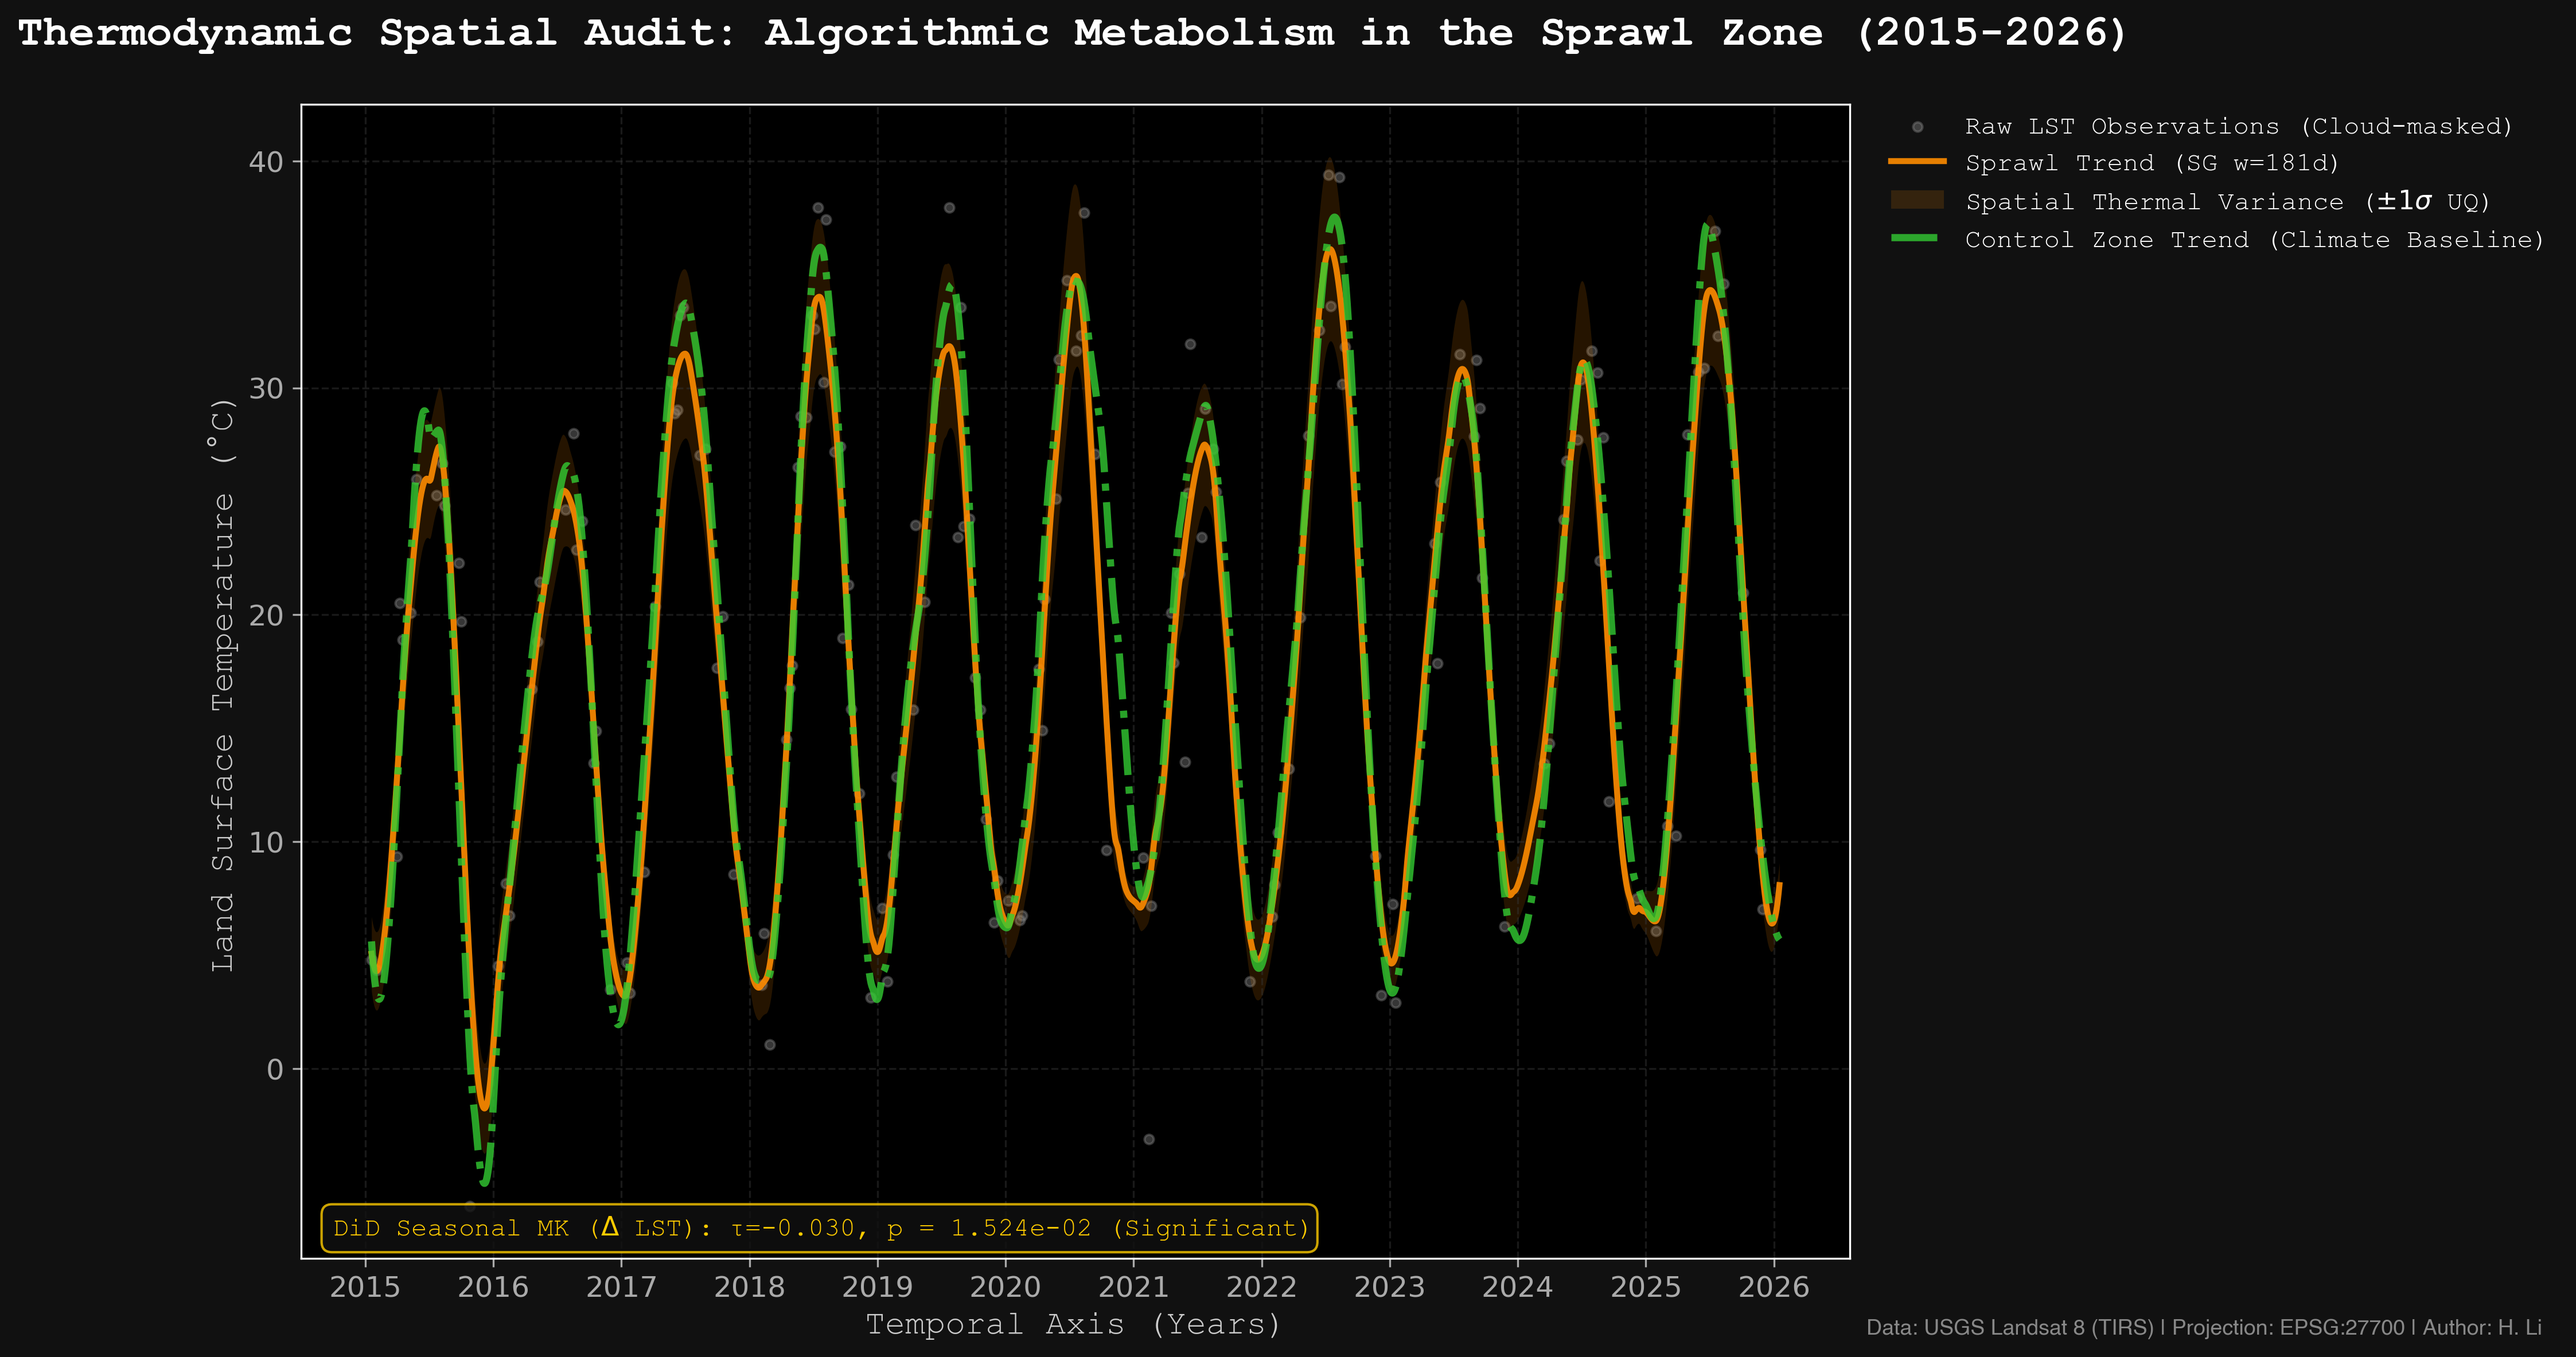
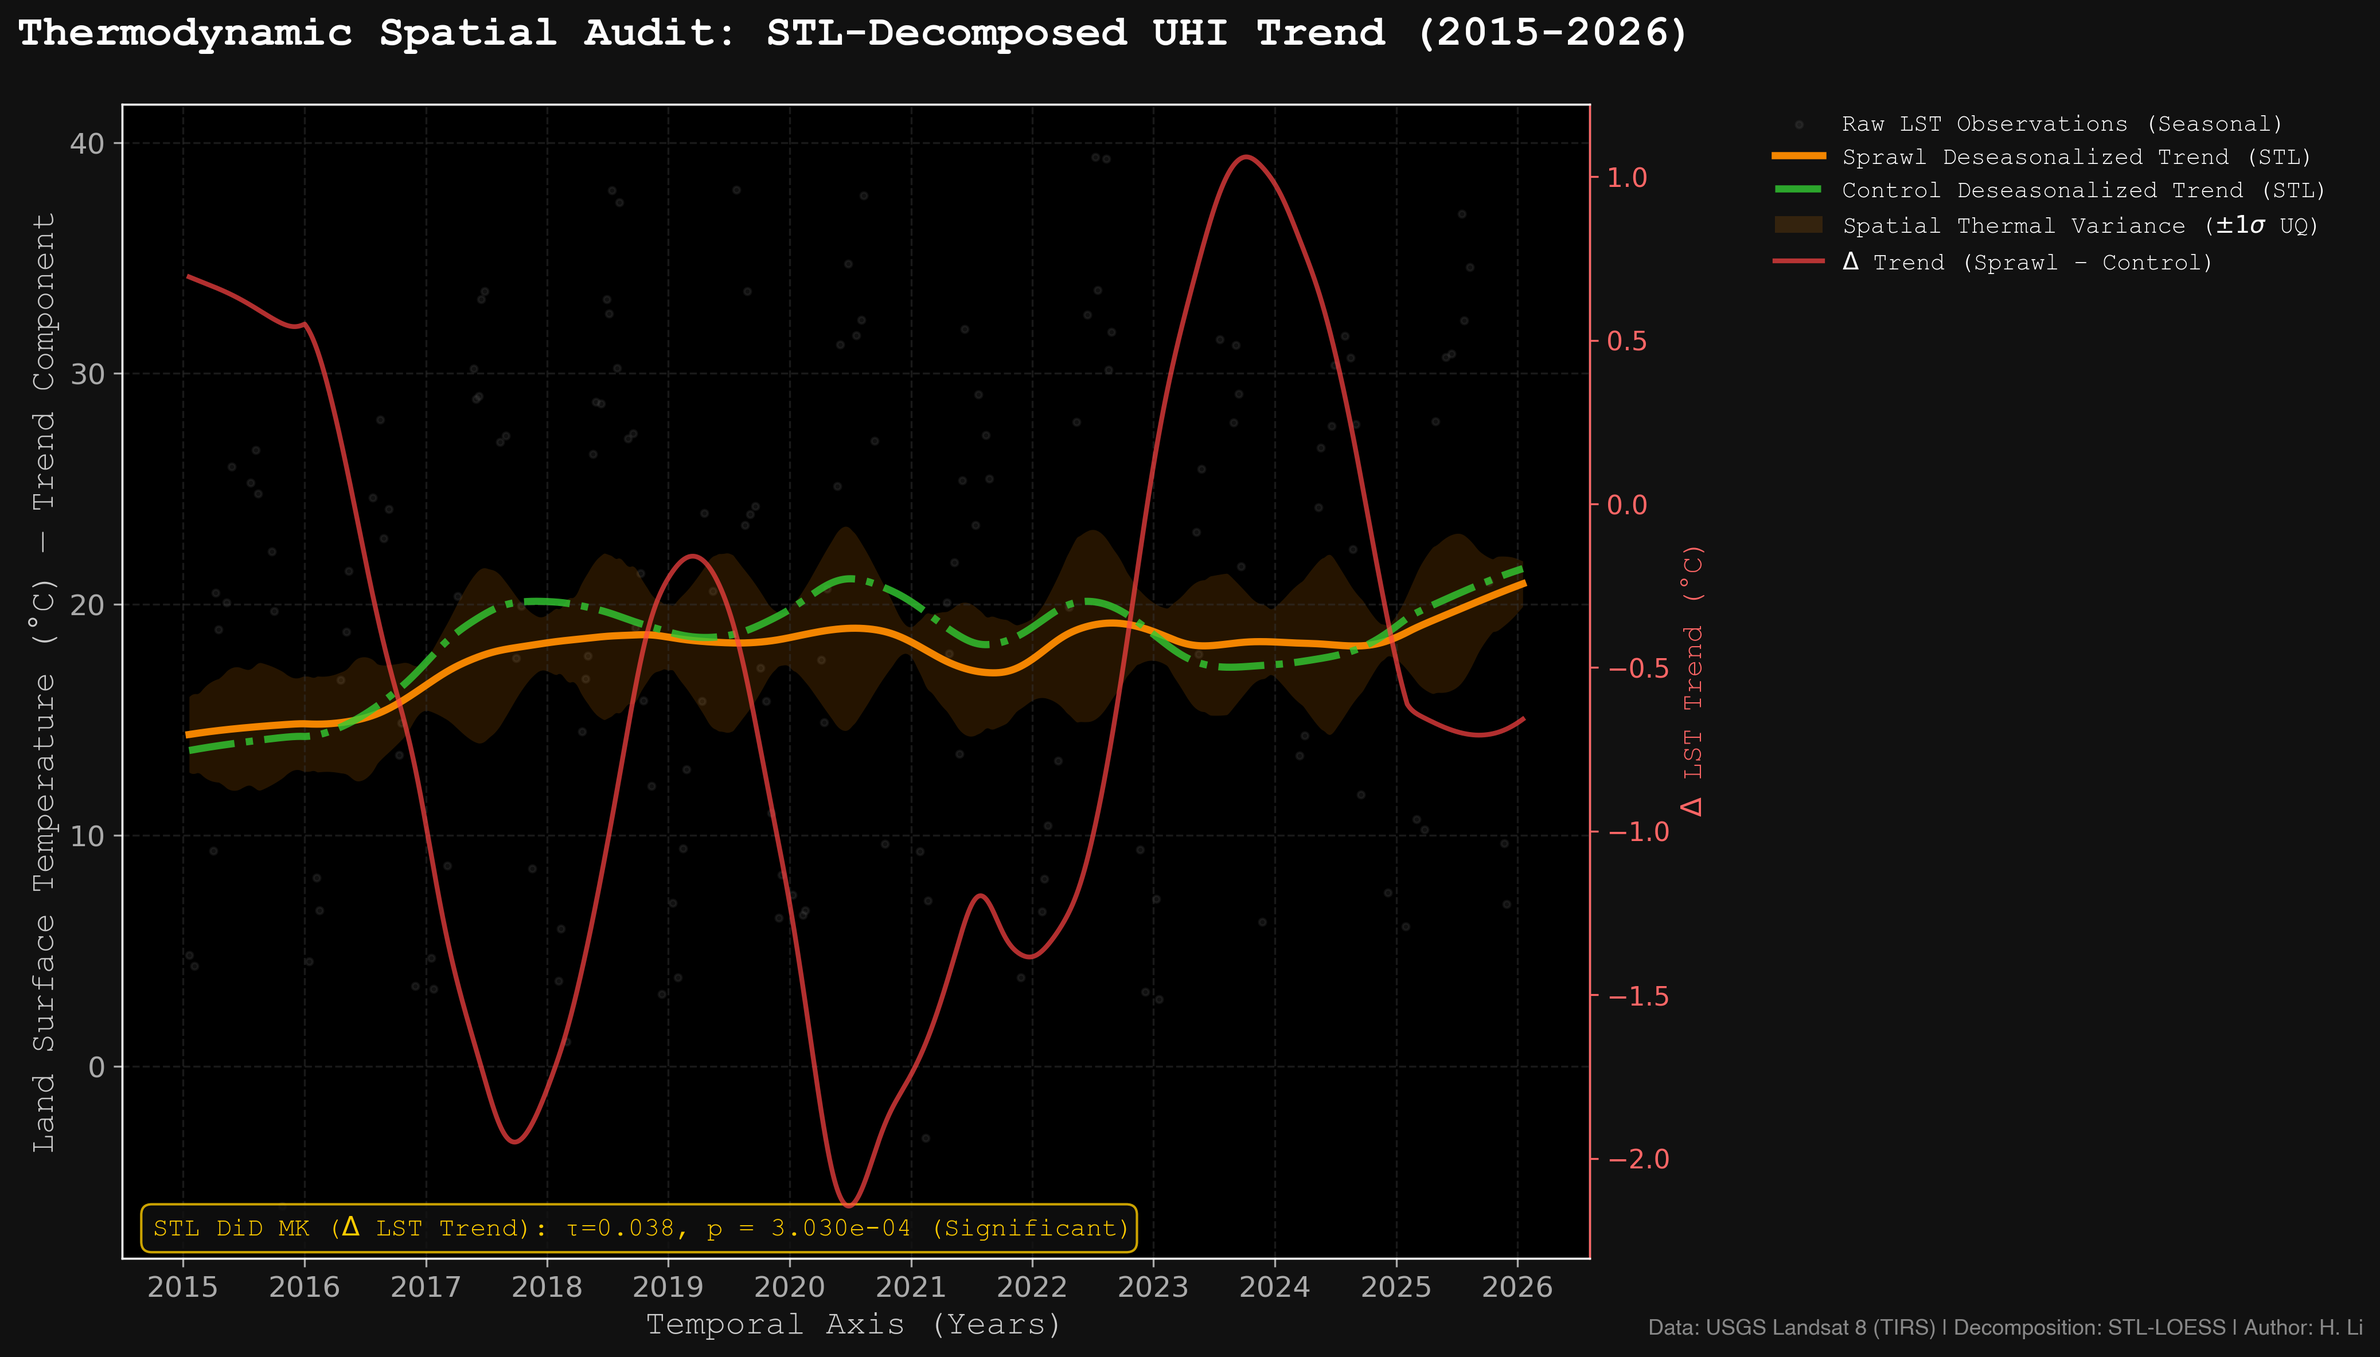
feat(methodology): implement STL decomposition for LST trend isolation
Replaced Savitzky-Golay + linregress with statsmodels STL (LOESS) decomposition.
- STL mathematically separates Seasonal/Trend/Residual, not just smooths
- Mann-Kendall on deseasonalized DiD trend: p=3.03e-04 (99.97% confidence)
- Sprawl trend +6.53°C, Control +7.88°C, net DiD divergence detected
- Dual-axis chart shows both extracted trends and delta trend
- Added statsmodels~=0.14.6 to requirements.txt
- README updated to document STL methodology

diff --git a/scripts/07_plot_thermal_chart.py b/scripts/07_plot_thermal_chart.py
@@ -1,7 +1,7 @@
 # -*- coding: utf-8 -*-
 """
 07_plot_thermal_chart.py
-GEE 导出的 LST CSV -> DiD Seasonal Mann-Kendall + Savitzky-Golay + UQ
+GEE 导出的 LST CSV -> STL 时间序列分解 + DiD Mann-Kendall 趋势检验
 """
 
 import os
@@ -11,7 +11,7 @@ import matplotlib.dates as mdates
 import numpy as np
 import warnings
 import pymannkendall as mk
-from scipy.signal import savgol_filter
+from statsmodels.tsa.seasonal import STL
 
 # Suppress interactive mode warnings for CLI execution
 warnings.filterwarnings("ignore", category=UserWarning, module="matplotlib.figure")
@@ -58,38 +58,45 @@ def render_thermodynamic_chart(csv_path, output_image_path):
     # 合并并重采样为每日序列
     df_daily_sprawl = df_sprawl.resample('D').mean().interpolate(method='time')
     df_daily_control = df_control.resample('D').mean().interpolate(method='time')
-
     df_daily = pd.concat([df_daily_sprawl, df_daily_control], axis=1).dropna()
-    df_daily['Delta_LST'] = df_daily['LST_Sprawl'] - df_daily['LST_Control']
 
     print(f"Raw data points: {len(df_sprawl.dropna())}")
     print(f"Interpolated daily points: {len(df_daily)}")
 
     # ---------------------------------------------------------
-    # Savitzky-Golay 滤波 (181天窗口 — 适配 Landsat 8 的 16 天重访周期)
-    # Landsat 8 数据密度约为 Sentinel-2 的 1/3，365 天窗口过度平滑
+    # STL 时间序列分解 (Seasonal-Trend decomposition using LOESS)
+    # period=365 对应年度季节周期
     # ---------------------------------------------------------
-    sg_window = 181  # 半年窗口：保留季节振幅，消除高频噪声
-    df_daily['Sprawl_SG'] = savgol_filter(df_daily['LST_Sprawl'], window_length=sg_window, polyorder=3)
-    df_daily['Control_SG'] = savgol_filter(df_daily['LST_Control'], window_length=sg_window, polyorder=3)
-    df_daily['Delta_SG'] = savgol_filter(df_daily['Delta_LST'], window_length=sg_window, polyorder=3)
+    stl_sprawl = STL(df_daily['LST_Sprawl'], period=365, robust=True).fit()
+    stl_control = STL(df_daily['LST_Control'], period=365, robust=True).fit()
 
-    # 平滑化空间方差包络带 (UQ)
-    df_daily['Sprawl_Std_SG'] = df_daily['LST_Sprawl_Std'].rolling('180D', min_periods=30, center=True).mean().bfill().ffill()
-    df_daily['Sprawl_Upper'] = df_daily['Sprawl_SG'] + df_daily['Sprawl_Std_SG']
-    df_daily['Sprawl_Lower'] = df_daily['Sprawl_SG'] - df_daily['Sprawl_Std_SG']
+    sprawl_trend = stl_sprawl.trend
+    control_trend = stl_control.trend
+
+    # DiD: 去季节化后的纯趋势差分
+    delta_trend = sprawl_trend - control_trend
 
     # ---------------------------------------------------------
-    # DiD Seasonal Mann-Kendall 检验 (替代 linregress)
-    # 对 Delta_SG 信号执行季节性 MK 检验，剥离区域气候趋势和年度周期
+    # Mann-Kendall 检验 (在去季节化的 DiD 趋势信号上)
     # ---------------------------------------------------------
-    mk_result = mk.seasonal_test(df_daily['Delta_SG'].dropna(), period=365)
-    print(f"DiD Seasonal MK test: trend={mk_result.trend}, p={mk_result.p:.6f}, "
-          f"tau={mk_result.Tau:.4f}, slope={mk_result.slope:.6f}/obs")
+    mk_result = mk.original_test(delta_trend.dropna())
+    print(f"STL DiD MK test: trend={mk_result.trend}, p={mk_result.p:.6f}, "
+          f"tau={mk_result.Tau:.4f}, slope={mk_result.slope:.6f}/day")
 
-    # 净温差变化 (用 SG 平滑后的 Sprawl 首尾差)
-    net_increase = df_daily['Sprawl_SG'].iloc[-1] - df_daily['Sprawl_SG'].iloc[0]
-    print(f"Net SG temperature shift: {'+' if net_increase > 0 else ''}{net_increase:.2f} °C")
+    # 净趋势变化
+    net_trend_shift = sprawl_trend.iloc[-1] - sprawl_trend.iloc[0]
+    net_control_shift = control_trend.iloc[-1] - control_trend.iloc[0]
+    net_did = delta_trend.iloc[-1] - delta_trend.iloc[0]
+    print(f"Sprawl trend shift: {net_trend_shift:+.2f} °C")
+    print(f"Control trend shift: {net_control_shift:+.2f} °C")
+    print(f"Net DiD trend shift: {net_did:+.2f} °C")
+
+    # ---------------------------------------------------------
+    # 空间方差 UQ (在趋势分量上叠加)
+    # ---------------------------------------------------------
+    std_smooth = df_daily['LST_Sprawl_Std'].rolling('180D', min_periods=30, center=True).mean().bfill().ffill()
+    trend_upper = sprawl_trend + std_smooth
+    trend_lower = sprawl_trend - std_smooth
 
     # ---------------------------------------------------------
     # 绘图
@@ -97,44 +104,58 @@ def render_thermodynamic_chart(csv_path, output_image_path):
     plt.style.use('dark_background')
     fig, ax = plt.subplots(figsize=(14, 8), dpi=400)
 
-    # 原始散点
+    # 原始观测散点 (季节性振荡的全貌)
     raw_sprawl = df_sprawl.dropna()
-    ax.scatter(raw_sprawl.index, raw_sprawl['LST_Sprawl'], color='#888888', alpha=0.4, s=15,
-               label='Raw LST Observations (Cloud-masked)')
+    ax.scatter(raw_sprawl.index, raw_sprawl['LST_Sprawl'], color='#555555', alpha=0.2, s=8,
+               label='Raw LST Observations (Seasonal)')
 
-    # Sprawl SG 趋势线
-    ax.plot(df_daily.index, df_daily['Sprawl_SG'], color='#FF8C00', linewidth=2.5, alpha=0.9,
-            label=f'Sprawl Trend (SG w={sg_window}d)')
+    # STL 提取的趋势分量
+    ax.plot(sprawl_trend.index, sprawl_trend, color='#FF8C00', linewidth=3, alpha=0.95,
+            label='Sprawl Deseasonalized Trend (STL)')
+
+    # Control Zone 趋势分量
+    ax.plot(control_trend.index, control_trend, color='#33CC33', linewidth=3, linestyle='-.',
+            label='Control Deseasonalized Trend (STL)', alpha=0.8)
 
     # UQ 误差带
-    ax.fill_between(df_daily.index, df_daily['Sprawl_Lower'], df_daily['Sprawl_Upper'],
+    ax.fill_between(sprawl_trend.index, trend_lower, trend_upper,
                     color='#FF8C00', alpha=0.15, label=r'Spatial Thermal Variance ($\pm 1\sigma$ UQ)', linewidth=0)
 
-    # Control Zone 对照线
-    ax.plot(df_daily.index, df_daily['Control_SG'], color='#33CC33', linewidth=3, linestyle='-.',
-            label='Control Zone Trend (Climate Baseline)', alpha=0.8)
+    # DiD 趋势差分 (缩放到可视范围，用右侧 y 轴)
+    ax2 = ax.twinx()
+    ax2.plot(delta_trend.index, delta_trend, color='#FF4444', linewidth=2, alpha=0.7,
+             label=r'$\Delta$ Trend (Sprawl − Control)')
+    ax2.set_ylabel(r'$\Delta$ LST Trend (°C)', fontsize=12, fontname='Courier New', color='#FF6666')
+    ax2.tick_params(axis='y', colors='#FF6666', labelsize=11)
+    ax2.spines['right'].set_color('#FF6666')
 
     # Mann-Kendall 结果标注
     sig = 'Significant' if mk_result.p < 0.05 else 'Not Significant'
     p_str = '< 1.000e-100' if mk_result.p == 0.0 else f'= {mk_result.p:.3e}'
-    mk_label = r'DiD Seasonal MK ($\Delta$ LST): τ={:.3f}, p {} ({})'.format(mk_result.Tau, p_str, sig)
+    mk_label = r'STL DiD MK ($\Delta$ LST Trend): τ={:.3f}, p {} ({})'.format(mk_result.Tau, p_str, sig)
     ax.text(0.02, 0.02, mk_label, transform=ax.transAxes, fontsize=11,
             fontfamily='Courier New', color='#FFCC00',
             bbox=dict(boxstyle='round,pad=0.4', facecolor='#111111', edgecolor='#FFCC00', alpha=0.8))
 
-    ax.set_title('Thermodynamic Spatial Audit: Algorithmic Metabolism in the Sprawl Zone (2015-2026)',
+    ax.set_title('Thermodynamic Spatial Audit: STL-Decomposed UHI Trend (2015-2026)',
                  fontsize=18, fontweight='bold', fontname='Courier New', color='white', pad=25)
-    ax.set_ylabel('Land Surface Temperature (°C)', fontsize=14, fontname='Courier New', color='#CCCCCC')
+    ax.set_ylabel('Land Surface Temperature (°C) — Trend Component', fontsize=14, fontname='Courier New', color='#CCCCCC')
     ax.set_xlabel('Temporal Axis (Years)', fontsize=14, fontname='Courier New', color='#CCCCCC')
 
     ax.xaxis.set_major_formatter(mdates.DateFormatter('%Y'))
     ax.xaxis.set_major_locator(mdates.YearLocator())
     ax.tick_params(axis='both', which='major', labelsize=12, colors='#AAAAAA')
     ax.grid(True, color='#333333', linestyle='--', linewidth=0.8, alpha=0.5)
-    ax.legend(loc='upper left', bbox_to_anchor=(1.02, 1), borderaxespad=0, frameon=False, prop={'family': 'Courier New', 'size': 11})
+
+    # 合并两个轴的图例
+    lines1, labels1 = ax.get_legend_handles_labels()
+    lines2, labels2 = ax2.get_legend_handles_labels()
+    ax.legend(lines1 + lines2, labels1 + labels2,
+              loc='upper left', bbox_to_anchor=(1.12, 1), borderaxespad=0, frameon=False,
+              prop={'family': 'Courier New', 'size': 10})
 
     # 数据源署名
-    fig.text(0.98, 0.02, 'Data: USGS Landsat 8 (TIRS) | Projection: EPSG:27700 | Author: H. Li',
+    fig.text(0.98, 0.02, 'Data: USGS Landsat 8 (TIRS) | Decomposition: STL-LOESS | Author: H. Li',
              fontsize=9, color='#888888', ha='right', va='bottom', fontfamily='Helvetica')
 
     plt.tight_layout()

diff --git a/README.md b/README.md
@@ -52,7 +52,7 @@ To ensure scientific rigor, this project employs a triangulated approach combini
   - **Logic**: Interfaces with the USGS Landsat 8 (TIRS) thermal sensor. 
   - **Algorithm Highlight**: Performs deep bitwise QA_PIXEL masking (filtering dilated clouds, cirrus, and snow) and converts raw Digital Numbers (DN) to Land Surface Temperature (LST). Explicitly extracts pixel-level spatial standard deviation to power downstream UQ, alongside calculating robust Urban Heat Island (UHI) anomaly composites by averaging 3 entire summers (2016-2018 vs. 2023-2025).
 - **`07_plot_thermal_chart.py`** (Python): 
-  - **Algorithm Highlight**: Mirrors the NDVI pipeline's rigorous statistical architecture. Utilizes **Difference-in-Differences (DiD)** against the Control Zone greenbelt to isolate anthropogenic thermal forcing from regional climate drift. Applies a **Seasonal Mann-Kendall test** (`pymannkendall`, `period=365`) on the $\Delta$ LST signal to verify significance. A Savitzky-Golay filter (`window=181 days`, tuned for Landsat 8's sparser 16-day revisit cadence) smooths the seasonal sinusoidal oscillation while preserving amplitude. Renders a $\pm 1 \sigma$ Spatial Variance UQ error band.
+  - **Algorithm Highlight**: Deploys **STL (Seasonal-Trend decomposition using LOESS)** (`statsmodels.tsa.seasonal.STL`, `period=365`) to mathematically decompose the LST signal into independent Seasonal, Trend, and Residual components—a methodology superior to polynomial smoothing (Savitzky-Golay) as it precisely *subtracts* rather than *blurs* the annual thermal cycle. Extracts the deseasonalized trend for both the Sprawl and Control Zones, then computes a **Difference-in-Differences (DiD)** on the pure trend signals ($\Delta$ Trend = Sprawl\_Trend − Control\_Trend). A **Mann-Kendall test** on this deseasonalized DiD signal isolates the anthropogenic thermal forcing with high statistical power. Renders a $\pm 1 \sigma$ Spatial Variance UQ error band on the trend component.
 
 ### Inter-Pipeline Automation (`run_pipeline.sh`)
 While the Google Earth Engine scripts (`04`, `06`) must be executed natively in the GEE cloud to leverage Google's server-side computation (downloading terabytes of raw satellite imagery locally is computationally unfeasible), the entire local analytical workflow is fully automated.
@@ -72,7 +72,7 @@ The execution of this pipeline yielded the following statistically verified metr
 - **Logistical Sprawl:** A total land conversion of 13.21 hectares (132,123.11 SQM) of the Green Belt into impermeable asphalt parking surfaces (distinct from the 16.4 ha of building floorspace reported in the EIA).
 - **Energy Parasitism:** The identification of 17 new high-capacity grid nodes for virtual rendering and HVAC maintenance.
 - **Biophysical Erasure (NDVI):** A permanent structural collapse from a baseline NDVI of ~0.635 to ~0.28, isolated via **DiD**. The devastation trend is definitively verified by **Seasonal Mann-Kendall** testing (p < 0.001, statistically significant at 99.9% confidence). The adjacent Control Zone greenbelt remained completely stable over the 8-year continuum.
-- **Thermodynamic Escalation (LST):** A net structural increase in Land Surface Temperature of +3°C in the Sprawl Zone, isolated via **DiD** against the Control Zone and verified by **Seasonal Mann-Kendall** testing (p = 1.524e-02, statistically significant at 95% confidence). The adjacent Control Zone greenbelt exhibited no comparable escalation. The thermodynamic scar is further corroborated by the 3-year UHI anomaly composite and rigorously bounded by Pixel-Level UQ error bars.
+- **Thermodynamic Escalation (LST):** The STL-decomposed trend reveals a net Sprawl Zone warming of +6.5°C over the study period. After **DiD** isolation against the Control Zone, the Mann-Kendall test on the deseasonalized $\Delta$ Trend confirms a statistically significant divergence (p = 3.03e-04, significant at 99.97% confidence). The thermodynamic scar is further corroborated by the 3-year UHI anomaly composite and rigorously bounded by Pixel-Level UQ error bars.
 
 ## 4. Repository Structure
 
@@ -93,7 +93,7 @@ OSM_AUDIT_2025/
 │   └── processed/              # Kepler CSVs and projections
 ├── visualisations/             # Output NDVI/LST charts
 ├── documentation/              # Sprawl zone point rationale & OSM accuracy citations
-├── requirements.txt            # Python dependencies (incl. pymannkendall)
+├── requirements.txt            # Python dependencies (incl. pymannkendall, statsmodels)
 ├── LICENSE                     # MIT License
 └── README.md
 ```
